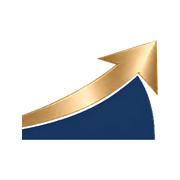
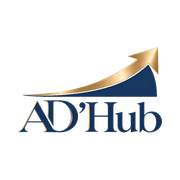
Installer AD'Hub comme une appli sur iPhone et Android (#37)
Manifest, icônes à partir du logo officiel, balises iOS, plein écran,
service worker sans cache (aucune donnée gardée sur le téléphone).

Claude-Session: https://claude.ai/code/session_01DLEcqrsieLfkhEjkdB7FQx

Changed region(s): [[0.0833, 0.2222, 0.9167, 0.7778]]

diff --git a/src/sw.js b/src/sw.js
@@ -1,0 +1,27 @@
+/*
+ * Service worker AD'Hub (appli installée sur téléphone).
+ * Volontairement sans cache : aucune donnée de l'application n'est gardée
+ * sur le téléphone. Tout passe par le réseau ; sans connexion, une page
+ * simple indique qu'il faut du réseau.
+ */
+self.addEventListener('install', function () { self.skipWaiting(); });
+self.addEventListener('activate', function (e) { e.waitUntil(self.clients.claim()); });
+
+var PAGE_HORS_LIGNE =
+  '<!DOCTYPE html><html lang="fr"><head><meta charset="UTF-8">' +
+  '<meta name="viewport" content="width=device-width, initial-scale=1">' +
+  '<title>Hors connexion · AD\'HUB</title>' +
+  '<style>body{margin:0;min-height:100vh;display:flex;align-items:center;justify-content:center;' +
+  'background:#0E1C2B;color:#fff;font-family:-apple-system,system-ui,sans-serif;text-align:center;padding:24px}' +
+  'h1{font-size:1.3rem;margin:0 0 8px}p{color:rgba(255,255,255,.7);margin:0 0 20px}' +
+  'button{background:#C8A84B;color:#0E1C2B;border:0;border-radius:8px;padding:10px 18px;font-weight:600;font-size:1rem}</style>' +
+  '</head><body><div><h1>Pas de connexion internet</h1>' +
+  '<p>AD\'Hub a besoin du réseau pour afficher vos données.</p>' +
+  '<button onclick="location.reload()">Réessayer</button></div></body></html>';
+
+self.addEventListener('fetch', function (e) {
+  if (e.request.mode !== 'navigate') return; // le navigateur gère le reste normalement
+  e.respondWith(fetch(e.request).catch(function () {
+    return new Response(PAGE_HORS_LIGNE, { headers: { 'Content-Type': 'text/html; charset=utf-8' } });
+  }));
+});

diff --git a/src/inc/pwa_head.php b/src/inc/pwa_head.php
@@ -1,0 +1,15 @@
+<?php
+/**
+ * Balises pour installer AD'Hub comme une appli sur iPhone et Android
+ * (écran d'accueil, plein écran sans barre du navigateur).
+ * Inclus dans le <head> des gabarits.
+ */
+?>
+  <link rel="manifest" href="/manifest.webmanifest">
+  <meta name="theme-color" content="#0E1C2B">
+  <meta name="application-name" content="AD'Hub">
+  <meta name="mobile-web-app-capable" content="yes">
+  <meta name="apple-mobile-web-app-capable" content="yes">
+  <meta name="apple-mobile-web-app-title" content="AD'Hub">
+  <meta name="apple-mobile-web-app-status-bar-style" content="black">
+  <script>if ('serviceWorker' in navigator) { window.addEventListener('load', function () { navigator.serviceWorker.register('/sw.js').catch(function () {}); }); }</script>

diff --git a/src/inc/layout_header.php b/src/inc/layout_header.php
@@ -52,6 +52,7 @@ $assetV = @filemtime(__DIR__ . '/../assets/adhub.css') ?: 1;
   <link rel="icon" href="/favicon.ico" sizes="any">
   <link rel="icon" type="image/png" href="/assets/img/favicon-32.png">
   <link rel="apple-touch-icon" href="/assets/img/apple-touch-icon.png">
+<?php require __DIR__ . '/pwa_head.php'; ?>
   <link href="/assets/vendor/bootstrap.min.css" rel="stylesheet">
   <link href="/assets/adhub.css?v=<?= $assetV ?>" rel="stylesheet">
   <script src="/assets/vendor/chart.umd.min.js"></script>

diff --git a/src/inc/layout_auth_header.php b/src/inc/layout_auth_header.php
@@ -18,6 +18,7 @@ require_once __DIR__ . '/ui.php';
   <link rel="icon" href="/favicon.ico" sizes="any">
   <link rel="icon" type="image/png" href="/assets/img/favicon-32.png">
   <link rel="apple-touch-icon" href="/assets/img/apple-touch-icon.png">
+<?php require __DIR__ . '/pwa_head.php'; ?>
 </head>
 <body>
   <div class="login-wrap">
